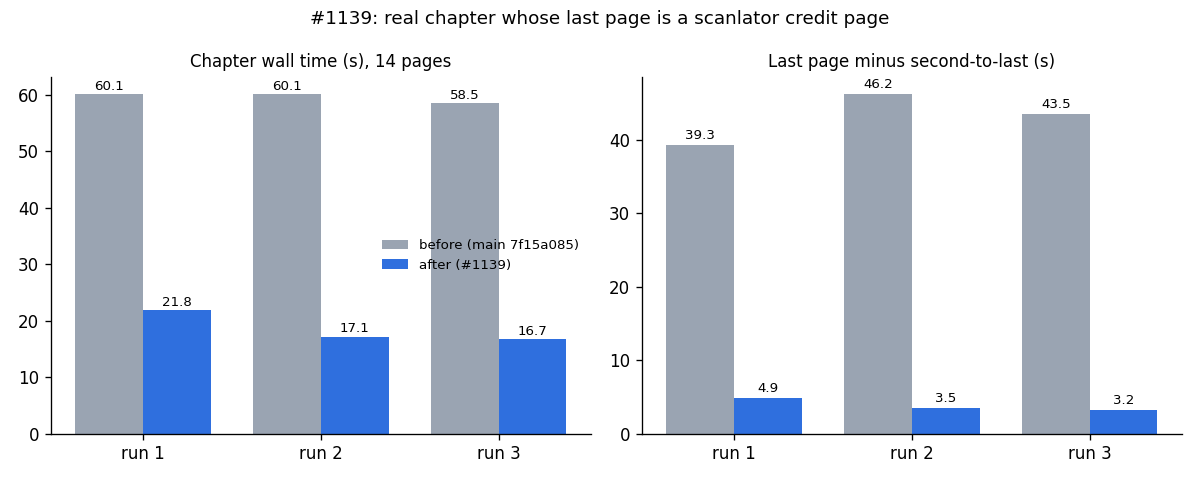
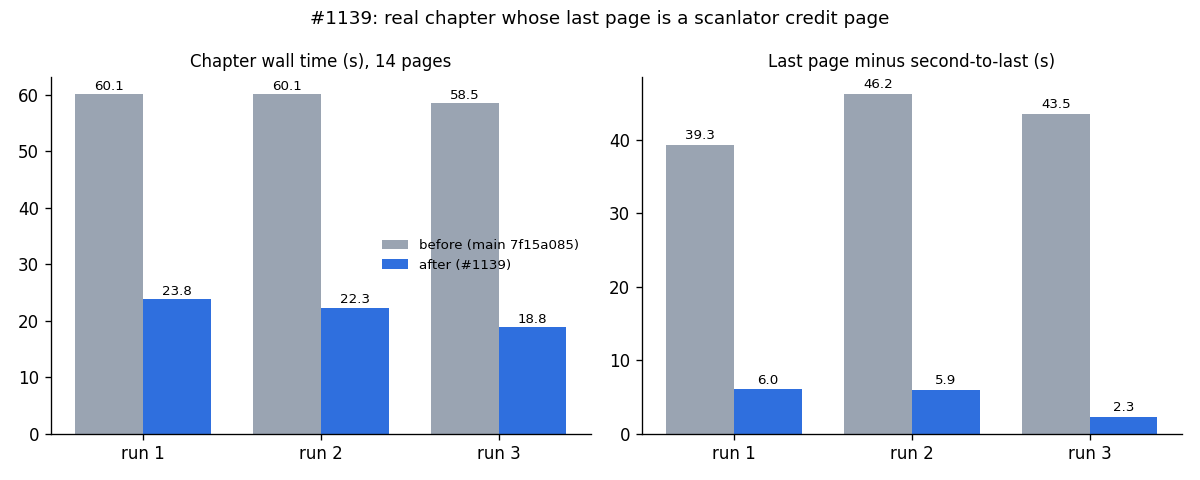
fix(MIT): gate the ratio exclusion on a credit-page signal; reuse _CREDIT_SRC (#1139)
Independent review of the first revision found inputs that slip through:
verbatim Japanese lines (the ASCII-only word count called them short),
short English shouts hidden behind one Thai line, and quote / ellipsis /
Title Case sources that defeat the mid-sentence-name regex.

- Ratio check: skip short Latin verbatim lines only on a page that has a
  verbatim URL/e-mail/wallet line; every other page is judged as before.
- untranslated_source_word: drop the name regex; donation-platform words
  (PAYPAL|PATREON|DISCORD|KO-FI|DONAT) join the existing _CREDIT_SRC list.

Tests for every review input. Live: credit page 1 LLM call; real 14-page
chapter 18.8-23.8 s (main 58.5-60.1 s), last-page gap 2.3-6.0 s (39-46 s).
Replay over 577 logged page translations: only credit pages change verdict.

T4-Gates: tdd=ran verify=ran scrutinize=ran code-review=not-run simplify=not-run security-review=n-a

diff --git a/MIT/manga_translator/translation_checks.py b/MIT/manga_translator/translation_checks.py
@@ -14,15 +14,26 @@ logger = logging.getLogger('manga_translator')
 
 
 _PLAIN_WORD = re.compile(r"^[A-Za-z][A-Za-z'’-]+[!?.,…]*$")
+#: a URL, e-mail, domain or wallet/handle-like token (letters mixed with digits) — no translation can change it
+_UNTRANSLATABLE_TOKEN = re.compile(
+    r'\S*(?:@|https?://|www\.|\.[A-Za-z]{2,}\b)\S*|\b(?=[A-Za-z]*\d)(?=\d*[A-Za-z])[A-Za-z0-9]{8,}\b')
+
+
+def _verbatim(text: str, translation: str) -> bool:
+    return bool(text) and ''.join(text.split()).upper() == ''.join(translation.split()).upper()
+
+
+def _credit_line(region) -> bool:
+    """A line handed back verbatim that holds a URL, e-mail or wallet address: the page is a credit page (#1139)."""
+    text = getattr(region, 'text', '') or ''
+    return _verbatim(text, region.translation) and bool(_UNTRANSLATABLE_TOKEN.search(text))
 
 
 def _kept_untranslatable(text: str, translation: str, in_target: float) -> bool:
-    """A short non-sentence line with no target-script letter (coin name, wallet address, URL, handle) that the
-    model handed back verbatim (#1139).
-
-    No answer can put Thai script into it, so counting it fails a scanlator credit page on every retry. A sentence
-    left in English (4+ plain words) still counts, so a page answered in English still fails."""
-    if in_target > 0 or not text or ''.join(text.split()).upper() != ''.join(translation.split()).upper():
+    """On a credit page, a short Latin line with no target-script letter handed back verbatim (coin name, wallet
+    address, URL) (#1139). No answer can put Thai into it, so counting it failed the page on every retry. A sentence
+    (4+ plain words) and a non-Latin source line still count."""
+    if in_target > 0 or not (text or '').isascii() or not _verbatim(text, translation):
         return False
     return sum(1 for word in text.split() if _PLAIN_WORD.match(word)) < 4
 
@@ -38,8 +49,10 @@ def check_target_language_ratio(text_regions: List, target_lang: str,
         return True
 
     answered = [r for r in text_regions if getattr(r, 'translation', '') and r.translation.strip()]
-    judged = [r for r in answered
-              if not _kept_untranslatable(getattr(r, 'text', ''), r.translation, script_ratio(r.translation, target_lang))]
+    judged = answered
+    if any(_credit_line(r) for r in answered):
+        judged = [r for r in answered
+                  if not _kept_untranslatable(getattr(r, 'text', ''), r.translation, script_ratio(r.translation, target_lang))]
     # a page where every line came back verbatim was not translated at all: judge it whole (#1139)
     all_translations = [r.translation.strip() for r in (judged or answered)]
 

diff --git a/MIT/test/test_translation_quality.py b/MIT/test/test_translation_quality.py
@@ -416,13 +416,22 @@ def test_segment_retry_policy_1055():
     assert not use_segment_retry(0, 20, seg_on)
 
 
-def test_a_capitalised_brand_inside_a_sentence_case_line_is_a_name_1139():
+def test_a_donation_platform_on_a_credit_line_is_not_an_untranslated_word_1139():
     from manga_translator.translation_quality import untranslated_source_word as u
     # live credit page: each of these re-asked the gateway once per translate call
     assert not u('Need Donations Guyz. Plz Paypal.', 'ต้องการเงินบริจาคนะทุกคน ช่วยโอนผ่าน Paypal หน่อยนะ')
     assert not u('Need Donations Guyz. Plz Paypal.', 'พวกเราต้องการการบริจาคนะ ช่วยโอนผ่าน PayPal ด้วย')
     assert not u('Check if Patreon is available? we usually put these links on top of the site.',
                  'ลองเช็กดูว่า Patreon ใช้ได้ไหม? เรามักจะใส่ลิงก์พวกนี้ไว้ด้านบนของเว็บ')
-    # a sentence-initial word is not a name, and all-caps lettering keeps the #1057 behaviour
+    # ordinary dialogue keeps the #1057 behaviour
     assert u('Materials are on the desk.', 'Materials อยู่บนโต๊ะนะ ไปหยิบมาสิ')
-    assert u('PLZ SEND IT THROUGH PAYPAL', 'ช่วยส่งมาทาง PAYPAL หน่อยนะทุกคนขอบคุณมากเลยจ้า')
+
+
+def test_name_detection_holes_found_in_review_1139():
+    from manga_translator.translation_quality import untranslated_source_word as u
+    assert not u('Need Donations Guyz. Plz PayPal.', 'ต้องการเงินบริจาคนะทุกคน ช่วยโอนผ่าน PayPal หน่อยนะ')
+    # a quote, double space, ellipsis or Title Case does not turn a sentence-initial word into a name
+    assert u('"Materials are on the desk."', 'Materials อยู่บนโต๊ะนะ ไปหยิบมาสิ')
+    assert u('Done.  Materials are here', 'เสร็จแล้ว Materials อยู่ตรงนี้นะจ๊ะ')
+    assert u('Wait…Materials are here', 'เดี๋ยว Materials อยู่ตรงนี้นะจ๊ะ')
+    assert u('Bring The Resource Materials Now', 'เอา Materials มาเดี๋ยวนี้เลยนะจ๊ะ')

diff --git a/MIT/manga_translator/translation_quality.py b/MIT/manga_translator/translation_quality.py
@@ -514,7 +514,9 @@ def dropped_question(src: str, dst: str, to_lang: str = '') -> bool:
 _LATIN_WORD = re.compile(r'[A-Za-z]{4,}')
 _THAI_CHAR = re.compile('[\u0E00-\u0E7F]')
 _CREDIT_SRC = re.compile(
-    r'(TRANSLAT|TRANSLATED BY|WRIT|DRAW|DESIGN|LETTER|EDITING|EDITOR|AUTHOR|STORY|THANKS|SPECIAL|CREDIT|CLEAN|TYPESET|PUBLISH|ART BY)',
+    # #1139: donation lines on scanlator credit pages name the platform, which stays Latin (`Plz Paypal.`)
+    r'(TRANSLAT|TRANSLATED BY|WRIT|DRAW|DESIGN|LETTER|EDITING|EDITOR|AUTHOR|STORY|THANKS|SPECIAL|CREDIT|CLEAN|TYPESET|PUBLISH|ART BY'
+    r'|PAYPAL|PATREON|DISCORD|KO-?FI|DONAT)',
     re.I)
 _VOWELS = set('AEIOUaeiou')
 
@@ -528,20 +530,6 @@ def _url_words(text):
     for match in _URLISH.finditer(text or ''):
         words.update(w.upper() for w in _LATIN_WORD.findall(match.group(0)))
     return words
-
-
-_CAPITALISED = re.compile(r'(?<![.!?]\s)(?<!^)\b[A-Z][a-z]{3,}\b')
-
-
-def _sentence_case_names(src):
-    """Capitalised words inside a sentence-case source (`Plz Paypal.`, `Check if Patreon is ...`) (#1139).
-
-    Mid-sentence capitals there mark a name the prompt lets stay Latin; re-asking for them failed on every retry of
-    a credit page. All-caps lettering has no such signal, so it returns nothing and #1057 is unchanged."""
-    src = (src or '').split(chr(10) + chr(10) + '[note:')[0].strip()
-    if not re.search('[a-z]', src):
-        return set()
-    return {w.upper() for w in _CAPITALISED.findall(src)}
 
 
 def untranslated_source_word(src: str, dst: str, to_lang: str = '') -> bool:
@@ -570,7 +558,6 @@ def untranslated_source_word(src: str, dst: str, to_lang: str = '') -> bool:
     # URLs / domains in the source or answer are legitimate Latin: `READ MORE CHAPTERS AT KDTSCANS.COM`
     # ships as `อ่านต่อได้ที่ KDTSCANS.COM`, not a lost translation (measured on unseen pages).
     url_words = _url_words(src) | _url_words(dst)
-    names = _sentence_case_names(src)
     for word in _LATIN_WORD.findall(dst):
         upper = word.upper()
         # exact source word, or a partial copy glued into the Thai (observed: MATERIALS -> 'ATERIALS' after the
@@ -581,8 +568,6 @@ def untranslated_source_word(src: str, dst: str, to_lang: str = '') -> bool:
         if not matched:
             continue
         if upper in url_words:
-            continue
-        if upper in names:
             continue
         if not (set(word) & _VOWELS):
             continue

diff --git a/MIT/test/test_translation_checks.py b/MIT/test/test_translation_checks.py
@@ -107,3 +107,15 @@ def test_a_page_answered_in_english_still_fails_1139():
 def test_a_page_of_short_lines_all_left_in_english_still_fails_1139():
     lines = ["HUH?!", "NO WAY!", "RIGHT...", "WHAT?", "STOP IT!", "OKAY"]
     assert check_target_language_ratio([_Pair(l, l) for l in lines], "THA", target_script_ratio) is False
+
+
+def test_short_english_lines_hidden_behind_one_thai_line_still_fail_1139():
+    lines = [_Pair(l, l) for l in ["HUH?!", "NO WAY!", "STOP IT!", "WHAT?", "GET OUT!"]]
+    lines.append(_Pair("I SAID GET OUT OF MY ROOM", "ฉันบอกให้ออกไปจากห้องฉัน"))
+    assert check_target_language_ratio(lines, "THA", target_script_ratio) is False
+
+
+def test_a_foreign_script_line_returned_verbatim_still_counts_1139():
+    page = [_Pair("今日はいい天気ですね", "今日はいい天気ですね"), _Pair("明日も晴れるといいな", "明日も晴れるといいな"),
+            _Pair("SEE YOU", "แล้วเจอกัน"), _Pair("https://discord.gg/x8sjNQP", "https://discord.gg/x8sjNQP")]
+    assert check_target_language_ratio(page, "THA", target_script_ratio) is False

diff --git a/docs/adr/035-mit-post-translation-guards-skip-untranslatable-text.md b/docs/adr/035-mit-post-translation-guards-skip-untranslatable-text.md
@@ -19,12 +19,13 @@ last page finished 39–46 s after the page before it. The retry log lines never
 
 ## Decision
 
-1. **The ratio check skips a region the model handed back verbatim if that region has no target-script letter and
-   fewer than 4 plain words.** A sentence left in English still counts. A page whose every answer is verbatim is
-   judged whole, so a page answered in English still fails.
-2. **`untranslated_source_word` treats a Capitalised word inside a sentence-case source, not at the start of a
-   sentence, as a name.** The comparison ignores case. All-caps lettering carries no such signal, so the #1057
-   behaviour is unchanged there.
+1. **On a credit page, the ratio check skips short Latin lines handed back verbatim.** A page counts as a credit page
+   when at least one line came back verbatim and holds a URL, an e-mail or a wallet-like token (letters mixed with
+   digits, 8+ characters). On such a page, a verbatim line is skipped only when its source is ASCII, it has no
+   target-script letter, and it has fewer than 4 plain words (a coin name, an address, a handle). Every other page is
+   judged exactly as before. A page whose every answer is verbatim is judged whole.
+2. **`untranslated_source_word` treats donation-platform lines as credit lines.** `PAYPAL|PATREON|DISCORD|KO-FI|DONAT`
+   joins the existing `_CREDIT_SRC` list (`TRANSLATED BY`, `CREDIT`, ...), which the guard already skips.
 
 ## Alternatives considered
 
@@ -33,13 +34,17 @@ last page finished 39–46 s after the page before it. The retry log lines never
 - **Stop retrying when a retry does not move the ratio.** This still spends one extra whole-page call per credit page,
   and the guard stays wrong about what it measures.
 - **Turn `enable_post_translation_check` off.** This loses the guard against pages answered in the wrong language.
+- **First revision (reviewed and replaced before merge):** skip any short verbatim line on any page, and treat
+  mid-sentence Capitalised words as names. Independent review found inputs that slip through: verbatim Japanese
+  lines, short English shouts hidden behind one Thai line, and quote, ellipsis or Title Case sources that
+  defeat the name regex. Gating on the credit-page signal and reusing `_CREDIT_SRC` closes all of them with less
+  code.
 
 ## Consequences
 
-- Credit page: 1 LLM call, 11–15 s (it was 24–40 s with 4–8 calls). Real chapter: 16.7–21.8 s (it was 58.5–60.1 s).
-  The last-page gap is 3–5 s (it was 39–46 s).
-- Replayed against the session logs: across 540 page translations, only credit pages change verdict (42 flips, fail →
-  pass), and none gets stricter. Of 3,903 segments, the only ones no longer flagged as untranslated words are the 60
-  `Paypal`/`Patreon` lines.
-- A sentence-case webtoon line with a capitalised common noun mid-sentence would no longer be re-asked if the model
-  left it in English. No such case appears in the logs.
+- Credit page: 1 LLM call, 7.8–14.2 s (it was 24–40 s with 4–8 calls). Real chapter: 18.8–23.8 s (it was
+  58.5–60.1 s). The last-page gap is 2.3–6.0 s (it was 39–46 s).
+- Replayed against the session logs: across 577 page translations, only credit pages change verdict (67 flips, fail →
+  pass), and none gets stricter. Of 4,112 segments, the only ones no longer flagged as untranslated words are the
+  `Paypal`/`Patreon` donation lines.
+- A dialogue line that mentions Discord, Patreon or PayPal is no longer checked for leftover English words.

diff --git a/docs/reports/benchmarks/2026-10-26-1139-credit-page-retries.md b/docs/reports/benchmarks/2026-10-26-1139-credit-page-retries.md
@@ -4,28 +4,28 @@
 
 **Setup:** live MIT (2 workers, `MIT_WORKER_SLOTS=5`, gateway `claude-haiku-5-5`), with the Backend's real config
 (`buildMitConfig`). The chapter is the developer's real 14-page chapter; its last page (`p13`) is a Setsuscans
-donation page with coin names, wallet addresses and URLs. Before = `main` 7f15a085, after = `fix/mit-untranslatable-retry`.
+donation page with coin names, wallet addresses and URLs. Before = `main` 7f15a085, after = `fix/mit-untranslatable-retry` (final revision, after review).
 
 | | before | after |
 |---|---|---|
-| credit page alone: LLM calls | 4 / 8 | 1 / 1 / 1 / 1 |
-| credit page alone: translation stage | 19.0 / 35.3 s | 6.4 / 7.0 / 3.4 / 6.5 s |
-| credit page alone: request | 24.4 / 40.3 s | 15.3 / 12.0 / 11.2 / 11.3 s |
-| story page (same chapter): request | 4.4 / 4.3 s | 4.4 / 4.5 / 4.7 / 4.6 s |
-| 14-page chapter wall | 60.1 / 60.1 / 58.5 s | 21.8 / 17.1 / 16.7 s |
-| last page minus second-to-last | 39.3 / 46.2 / 43.5 s | 4.9 / 3.5 / 3.2 s |
+| credit page alone: LLM calls | 4 / 8 | 1 / 1 |
+| credit page alone: translation stage | 19.0 / 35.3 s | 6.6 / 2.9 s |
+| credit page alone: request | 24.4 / 40.3 s | 14.2 / 7.8 s |
+| story page (same chapter): request | 4.4 / 4.3 s | 6.5 / 4.7 s |
+| 14-page chapter wall | 60.1 / 60.1 / 58.5 s | 23.8 / 22.3 / 18.8 s |
+| last page minus second-to-last | 39.3 / 46.2 / 43.5 s | 6.0 / 5.9 / 2.3 s |
 
 The developer's live log (before) shows the credit page's translation stage at 33.8 s, the slowest of 169 (median
 3.3 s).
 
 **Replay (no LLM):** old and new guards were run over every translation in the session logs.
-- Page ratio: across 540 page translations, 42 verdicts change, all of them a credit page going fail → pass. No
+- Page ratio: across 577 page translations, 67 verdicts change, all of them a credit page going fail → pass. No
   verdict gets stricter. Pages answered in English still fail.
-- Untranslated-word guard: across 3,903 segments, 60 are no longer flagged. All 60 are the `Paypal` / `Patreon`
-  lines of the credit page.
+- Untranslated-word guard: across 4,112 segments, 97 are no longer flagged. All of them are the `Paypal` /
+  `Patreon` donation lines of the credit page.
 
 **Render:** the after-fix render of the credit page was checked by eye. Its sentences are in Thai, and the
 addresses, QR codes and URLs are untouched. The image is not committed, because it is a third-party page.
 
 **Defect → evidence:** the symptom ("the last page of a chapter finishes far later than the one before it") is
-gone. The gap fell from 39–46 s to 3–5 s on the chapter that showed it.
+gone. The gap fell from 39–46 s to 2.3–6.0 s on the chapter that showed it.

diff --git a/DONE.md b/DONE.md
@@ -2,8 +2,8 @@
 
 Branch `fix/mit-untranslatable-retry`.
 - Root cause of "the last page of a chapter finishes far later": the last page is usually the scanlator credit page (6/7 chapters the developer translated). Its wallet addresses and URLs kept the page-level Thai ratio at 0.37-0.42, so `single_page_lang_check_retry` re-translated the page 3 more times, and `untranslated_source_word` re-asked once per call for `Paypal`/`Patreon`.
-- Fix: the ratio check skips verbatim non-sentence lines with no target-script letter (a page fully answered in English still fails); the untranslated-word guard treats mid-sentence Capitalised words in a sentence-case source as names. [ADR 035](docs/adr/035-mit-post-translation-guards-skip-untranslatable-text.md).
-- Measured live: credit page 4-8 LLM calls / 24-40 s -> 1 call / 11-15 s; real 14-page chapter 58.5-60.1 s -> 16.7-21.8 s, last-page gap 39-46 s -> 3-5 s. Replay over 540 logged page translations: only credit pages change verdict, none stricter.
+- Fix: on a page with a verbatim URL/e-mail/wallet line (credit-page signal), the ratio check skips short Latin lines handed back verbatim; every other page is judged as before. Donation-platform words (PAYPAL/PATREON/DISCORD/KO-FI/DONAT) join the existing `_CREDIT_SRC` credit-line list. A first revision was too broad, and independent review found the holes before merge. [ADR 035](docs/adr/035-mit-post-translation-guards-skip-untranslatable-text.md).
+- Measured live: credit page 4-8 LLM calls / 24-40 s -> 1 call / 8-14 s; real 14-page chapter 58.5-60.1 s -> 18.8-23.8 s, last-page gap 39-46 s -> 2.3-6.0 s. Replay over 577 logged page translations: only credit pages change verdict, none stricter.
 
 ---
 

diff --git a/docs/adr/README.md b/docs/adr/README.md
@@ -32,7 +32,7 @@ overturns an earlier one marks the old ADR **Superseded**.
 | [029](029-frontend-strata-design-system-and-mascots.md) | Frontend design system: Strata tokens, dark default + 3 modes, no purple, one loader family, bot-avatars mascots as profile identity, on-demand ECharts in Studio | Frontend | Accepted — **implementing** (#764) |
 | [022](022-mit-detection-completeness-and-overlap-safe-patches.md) | MIT detection-completeness nets (empty-balloon / white-caption / ink-cluster rescue) + overlap-safe patch alpha + index-based numbered-contract; the Otome-p10 8-defect sweep | MIT | Accepted |
 | [034](034-mit-dual-gpu-serving-layout.md) | MIT dual-GPU serving: 4–5 workers over both cards with least-busy-GPU dispatch; Strata-xeno as reference design, not runtime; hedging rejected | MIT | Accepted (#1119) |
-| [035](035-mit-post-translation-guards-skip-untranslatable-text.md) | MIT post-translation guards skip text no translation can change (verbatim non-sentence lines, mid-sentence names): credit pages stop re-translating 3-8x | MIT | Accepted (#1139) |
+| [035](035-mit-post-translation-guards-skip-untranslatable-text.md) | MIT post-translation guards skip text no translation can change (verbatim Latin lines on pages with a URL/e-mail/wallet line; donation-platform credit lines): credit pages stop re-translating 3-8x | MIT | Accepted (#1139) |
 
 ## Conventions
 
